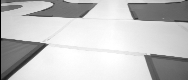
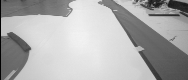
重新调图

diff --git a/scripts/ImgProcess.py b/scripts/ImgProcess.py
@@ -121,33 +121,6 @@ class ImgProcess:
         pi2, pj2 = axisTransform(i2, j2, self.REPMAT)
         self.SrcShow.line((pi1, pj1), (pi2, pj2), color, thickness)
 
-    def drawLines(self) -> None:
-        "画参考线"
-        # 最上面的舍弃行
-        self.SrcShow.line((CUT, 0), (CUT, M))
-
-        # 标尺
-        self.SrcShow.line((N - 5, 5), (N - 5, 15))
-        self.SrcShow.line((N - 5, 5), (N - 15, 5))
-        self.PerShow.line((N_ - 5, 5), (N_ - 5, 15))
-        self.PerShow.line((N_ - 5, 5), (N_ - 15, 5))
-
-        # 平移参照行X_POS
-        # self.PerShow.line((X_POS + I_SHIFT, 0), (X_POS + I_SHIFT, M_))
-
-        # 前沿线范围
-        # self.SrcShow.line((0, CORNERCUT), (N, 0))
-        # self.SrcShow.line((0, M - CORNERCUT), (N, M))
-        # self.SrcShow.line((FORKUPCUT, 0), (FORKUPCUT, M))
-        # self.SrcShow.line((N - FORKDOWNCUT, 0), (N - FORKDOWNCUT, M))
-
-        # 起跑线检测
-        # self.line((STARTLINE_I1, STARTLINE_PADDING), (STARTLINE_I1, M - STARTLINE_PADDING), (255, 0, 0))
-        # self.line((STARTLINE_I2, STARTLINE_PADDING), (STARTLINE_I2, M - STARTLINE_PADDING), (255, 0, 0))
-
-        # 环岛
-        # self.PerShow.line((0, ROUND_MAXWIDTH), (N_, ROUND_MAXWIDTH))
-
     def sobel(self, i: int, j: int, lr: int = LRSTEP) -> int:
         "魔改的sobel算子"
         il = max(CUT, i - UDSTEP)
@@ -376,34 +349,60 @@ class ImgProcess:
         for i, (k, v) in enumerate(self.landmark.items()):
             self.PerShow.putText(k + ": " + str(v), (i * 5 + 100, 170))
 
+    def drawLines(self) -> None:
+        "画参考线"
+        # 最上面的舍弃行
+        self.SrcShow.line((CUT, 0), (CUT, M))
+
+        # 标尺
+        self.SrcShow.line((N - 5, 5), (N - 5, 15))
+        self.SrcShow.line((N - 5, 5), (N - 15, 5))
+        self.PerShow.line((N_ - 5, 5), (N_ - 5, 15))
+        self.PerShow.line((N_ - 5, 5), (N_ - 15, 5))
+
+        # 平移参照行X_POS
+        self.PerShow.line((X_POS + I_SHIFT, 0), (X_POS + I_SHIFT, M_))
+
+        # 前沿线范围
+        self.SrcShow.line((0, CORNERCUT), (N, 0))
+        self.SrcShow.line((0, M - CORNERCUT), (N, M))
+        self.SrcShow.line((FORKUPCUT, 0), (FORKUPCUT, M))
+        self.SrcShow.line((N - FORKDOWNCUT, 0), (N - FORKDOWNCUT, M))
+
+        # 起跑线检测
+        # self.line((STARTLINE_I1, STARTLINE_PADDING), (STARTLINE_I1, M - STARTLINE_PADDING), (255, 0, 0))
+        # self.line((STARTLINE_I2, STARTLINE_PADDING), (STARTLINE_I2, M - STARTLINE_PADDING), (255, 0, 0))
+
+        # 环岛
+        self.PerShow.line((0, ROUND_MAXWIDTH), (N_, ROUND_MAXWIDTH))
+
     def work(self):
         "图像处理的完整工作流程"
         self.drawLines()
         self.landmark["StartLine"] = self.checkStartLine(STARTLINE_I1) or self.checkStartLine(STARTLINE_I2)
-        self.getK()
+        self.getK(True)
 
         "入环"
-        isRight = True
-        if self.roundaboutGetCorner(isRight):
-            self.roundaboutGetInMid(isRight)
-            self.getTarget()
-            self.solve()
+        # isRight = True
+        # if self.roundaboutGetCorner(isRight):
+        #     self.roundaboutGetInMid(isRight)
+        #     self.getTarget()
+        #     self.solve()
 
         "出环"
         # isRight = True
-        # self.getK()
         # self.roundaboutGetOutMid(isRight)
         # self.getTarget()
         # self.solve()
 
         "正常"
-        # self.getEdge()
-        # self.landmark["Hill"] = self.hillChecker[0].check() and self.hillChecker[1].check() and self.hillChecker[0].calc() + self.hillChecker[1].calc() > HILL_DIFF
-        # self.landmark["Roundabout1"] = "None" if not self.roundaboutChecker.check() else "Right" if self.roundaboutChecker.side else "Left"
-        # self.landmark["Fork"] = self.frontForkChecker.res and (self.sideForkChecker[0].res or self.sideForkChecker[1].res)
-        # if self.getMid():
-        #     self.getTarget()
-        #     self.solve()
+        self.getEdge()
+        self.landmark["Hill"] = self.hillChecker[0].check() and self.hillChecker[1].check() and self.hillChecker[0].calc() + self.hillChecker[1].calc() > HILL_DIFF
+        self.landmark["Roundabout1"] = "None" if not self.roundaboutChecker.check() else "Right" if self.roundaboutChecker.side else "Left"
+        self.landmark["Fork"] = self.frontForkChecker.res and (self.sideForkChecker[0].res or self.sideForkChecker[1].res)
+        if self.getMid(True):
+            self.getTarget()
+            self.solve()
 
         self.PerShow.point((self.PI + I_SHIFT, self.PJ + J_SHIFT), r=6)
         self.showRes()

diff --git a/Config.py b/Config.py
@@ -21,16 +21,16 @@ K_HIGH = 1.5  # 斜率上限
 
 # 拟合曲线
 X_POS = 102  # 平移点的x位置
-WIDTH = 18.2  # 赛道宽度
+WIDTH = 18  # 赛道宽度
 
 # 获取目标点
 PI = 144.0
 DIST = 37  # 垂足向上扩展的长度
 
-X0 = 17.0
+X0 = 27.0
 
 # 起跑线检测
-STARTLINE_I1 = 40
+STARTLINE_I1 = 30
 STARTLINE_I2 = 60
 STARTLINE_PADDING = 30
 STARTLINE_COUNT = 25
@@ -41,16 +41,16 @@ HILL_CUT = 30
 HILL_COUNT = 10
 
 # 环岛
-ROUND_MAXWIDTH = 50
-ROUND_COUNT0 = 6
-ROUND_DIST2 = 16
-ROUND_COUNT3 = 3
+ROUND_MAXWIDTH = 50  # 最大有效宽度，大于这个宽度视为丢线
+ROUND_COUNT0 = 3  # 最开始至少丢的行数，设成0就可以不丢
+ROUND_DIST2 = 16  # 圆形结束后最丢线的最小距离
+ROUND_COUNT3 = 3  # 再次搜到线的最小行数
 
-ROUND_UPCOUNT = 12
-ROUND_DOWNCOUNT = 3
+ROUND_UPCOUNT = 12  # 原图上圆环边先变小的最小个数
+ROUND_DOWNCOUNT = 3  # 原图上圆环边变小后变大的最小个数
 
-ROUNDENTER_GETCOUNT = 3
-ROUNDENTER_LOSTCOUNT = 3
+ROUNDENTER_GETCOUNT = 3  # 入环时从上往下搜的最少有效点
+ROUNDENTER_LOSTCOUNT = 3  # 搜到有效点后再至少丢的行数
 
 
 # 逆透视变换
@@ -61,10 +61,10 @@ SRCARR = [  # 原图上的四个点
     (78, 187),  # 右下角
 ]
 PERARR = [  # 新图上的四个点
-    (3, -20),  # 左上角
-    (6, 240),  # 右上角
-    (130, 112),  # 左下角
-    (129, 150),  # 右下角
+    (4, -10),  # 左上角
+    (4, 245),  # 右上角
+    (125, 100),  # 左下角
+    (125, 140),  # 右下角
 ]
 
 # 可视化
